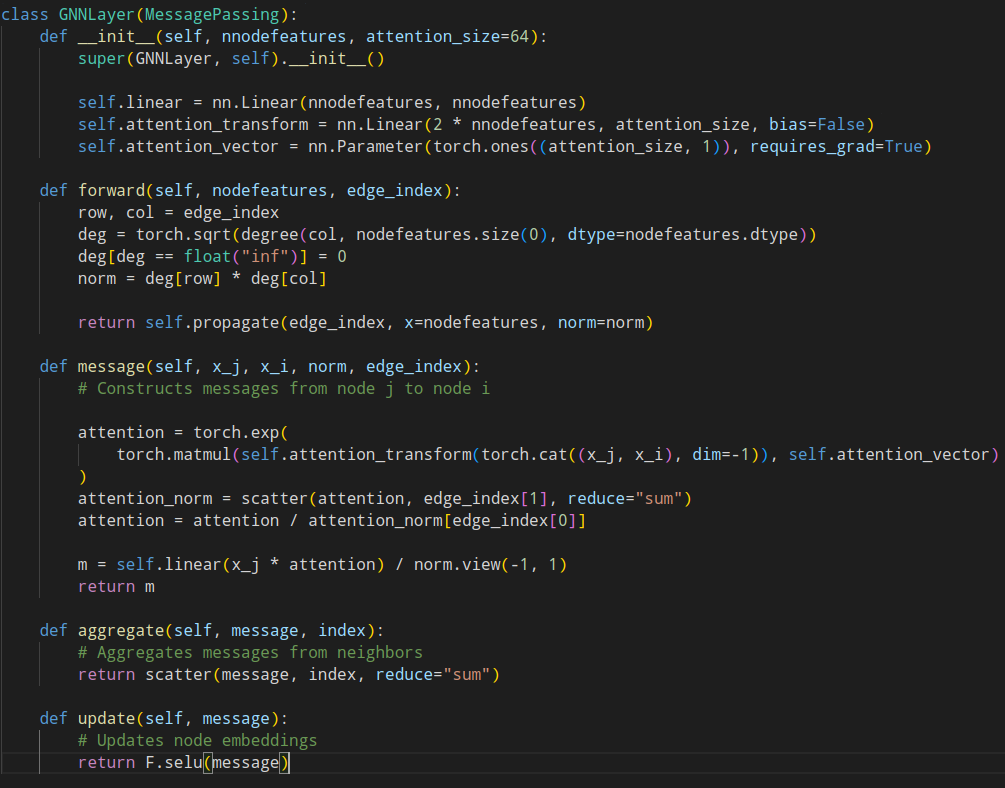
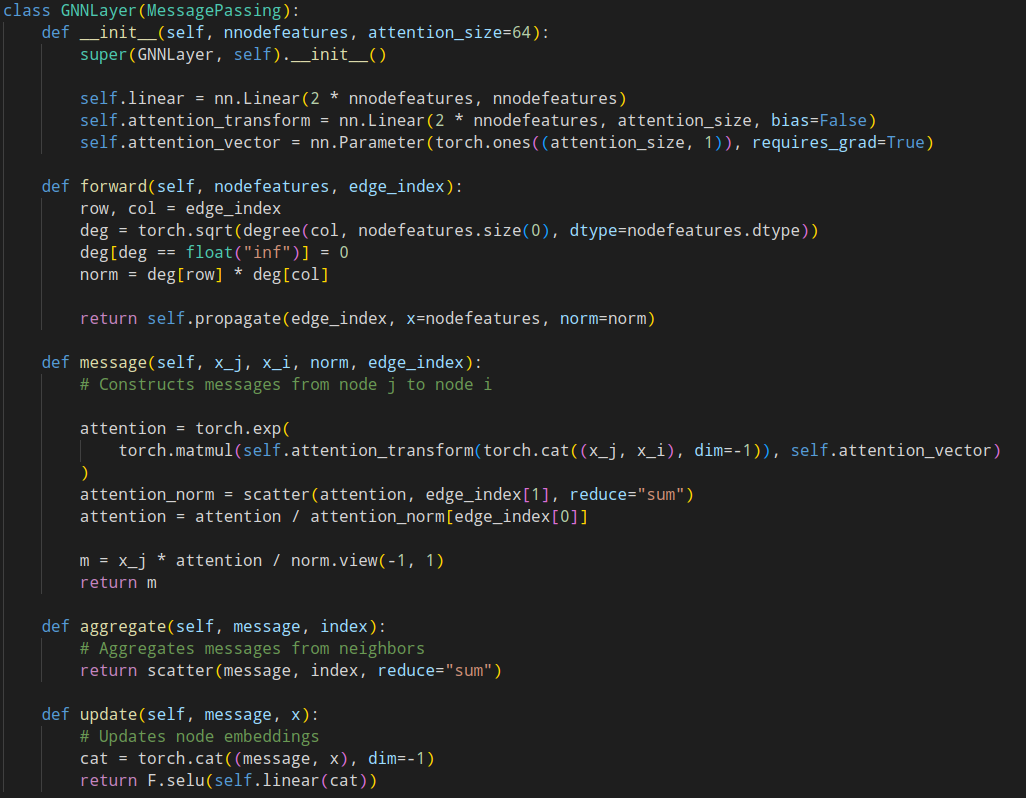
Fixed a stupid mistake in GNN message passing, added dropout to gnn. Also updated the code figures of presentation

Changed region(s): [[0.0, 0.0, 0.9254, 0.3655], [0.0308, 0.3959, 0.9871, 0.6701], [0.0308, 0.7005, 0.5244, 1.0]]

diff --git a/gnn/enzymes_gnn.py b/gnn/enzymes_gnn.py
@@ -9,7 +9,7 @@ class GNNLayer(MessagePassing):
     def __init__(self, nnodefeatures, attention_size=64):
         super(GNNLayer, self).__init__()
 
-        self.linear = nn.Linear(nnodefeatures, nnodefeatures)
+        self.linear = nn.Linear(2 * nnodefeatures, nnodefeatures)
         self.attention_transform = nn.Linear(2 * nnodefeatures, attention_size, bias=False)
         self.attention_vector = nn.Parameter(torch.ones((attention_size, 1)), requires_grad=True)
 
@@ -30,26 +30,30 @@ class GNNLayer(MessagePassing):
         attention_norm = scatter(attention, edge_index[1], reduce="sum")
         attention = attention / attention_norm[edge_index[0]]
 
-        m = self.linear(x_j * attention) / norm.view(-1, 1)
+        m = x_j * attention / norm.view(-1, 1)
         return m
 
     def aggregate(self, message, index):
         # Aggregates messages from neighbors
         return scatter(message, index, reduce="sum")
 
-    def update(self, message):
+    def update(self, message, x):
         # Updates node embeddings
-        return F.selu(message)
+        cat = torch.cat((message, x), dim=-1)
+        return F.selu(self.linear(cat))
 
 
 class EnzymesGNN(nn.Module):
-    def __init__(self, nnodefeatures=3, nclasses=6, nlayers=3, attention_size=64, cls_hidden_dim=128):
+    def __init__(
+        self, nnodefeatures=3, nclasses=6, nlayers=3, attention_size=64, cls_hidden_dim=128, dropout=0.3
+    ):
         super(EnzymesGNN, self).__init__()
         self.nlayers = nlayers
 
         self.gcn = GNNLayer(nnodefeatures, attention_size=attention_size)
 
         self.classifier = nn.Sequential(
+            nn.Dropout(p=dropout),
             nn.Linear(nnodefeatures, cls_hidden_dim),
             nn.SELU(),
             nn.Linear(cls_hidden_dim, nclasses),
